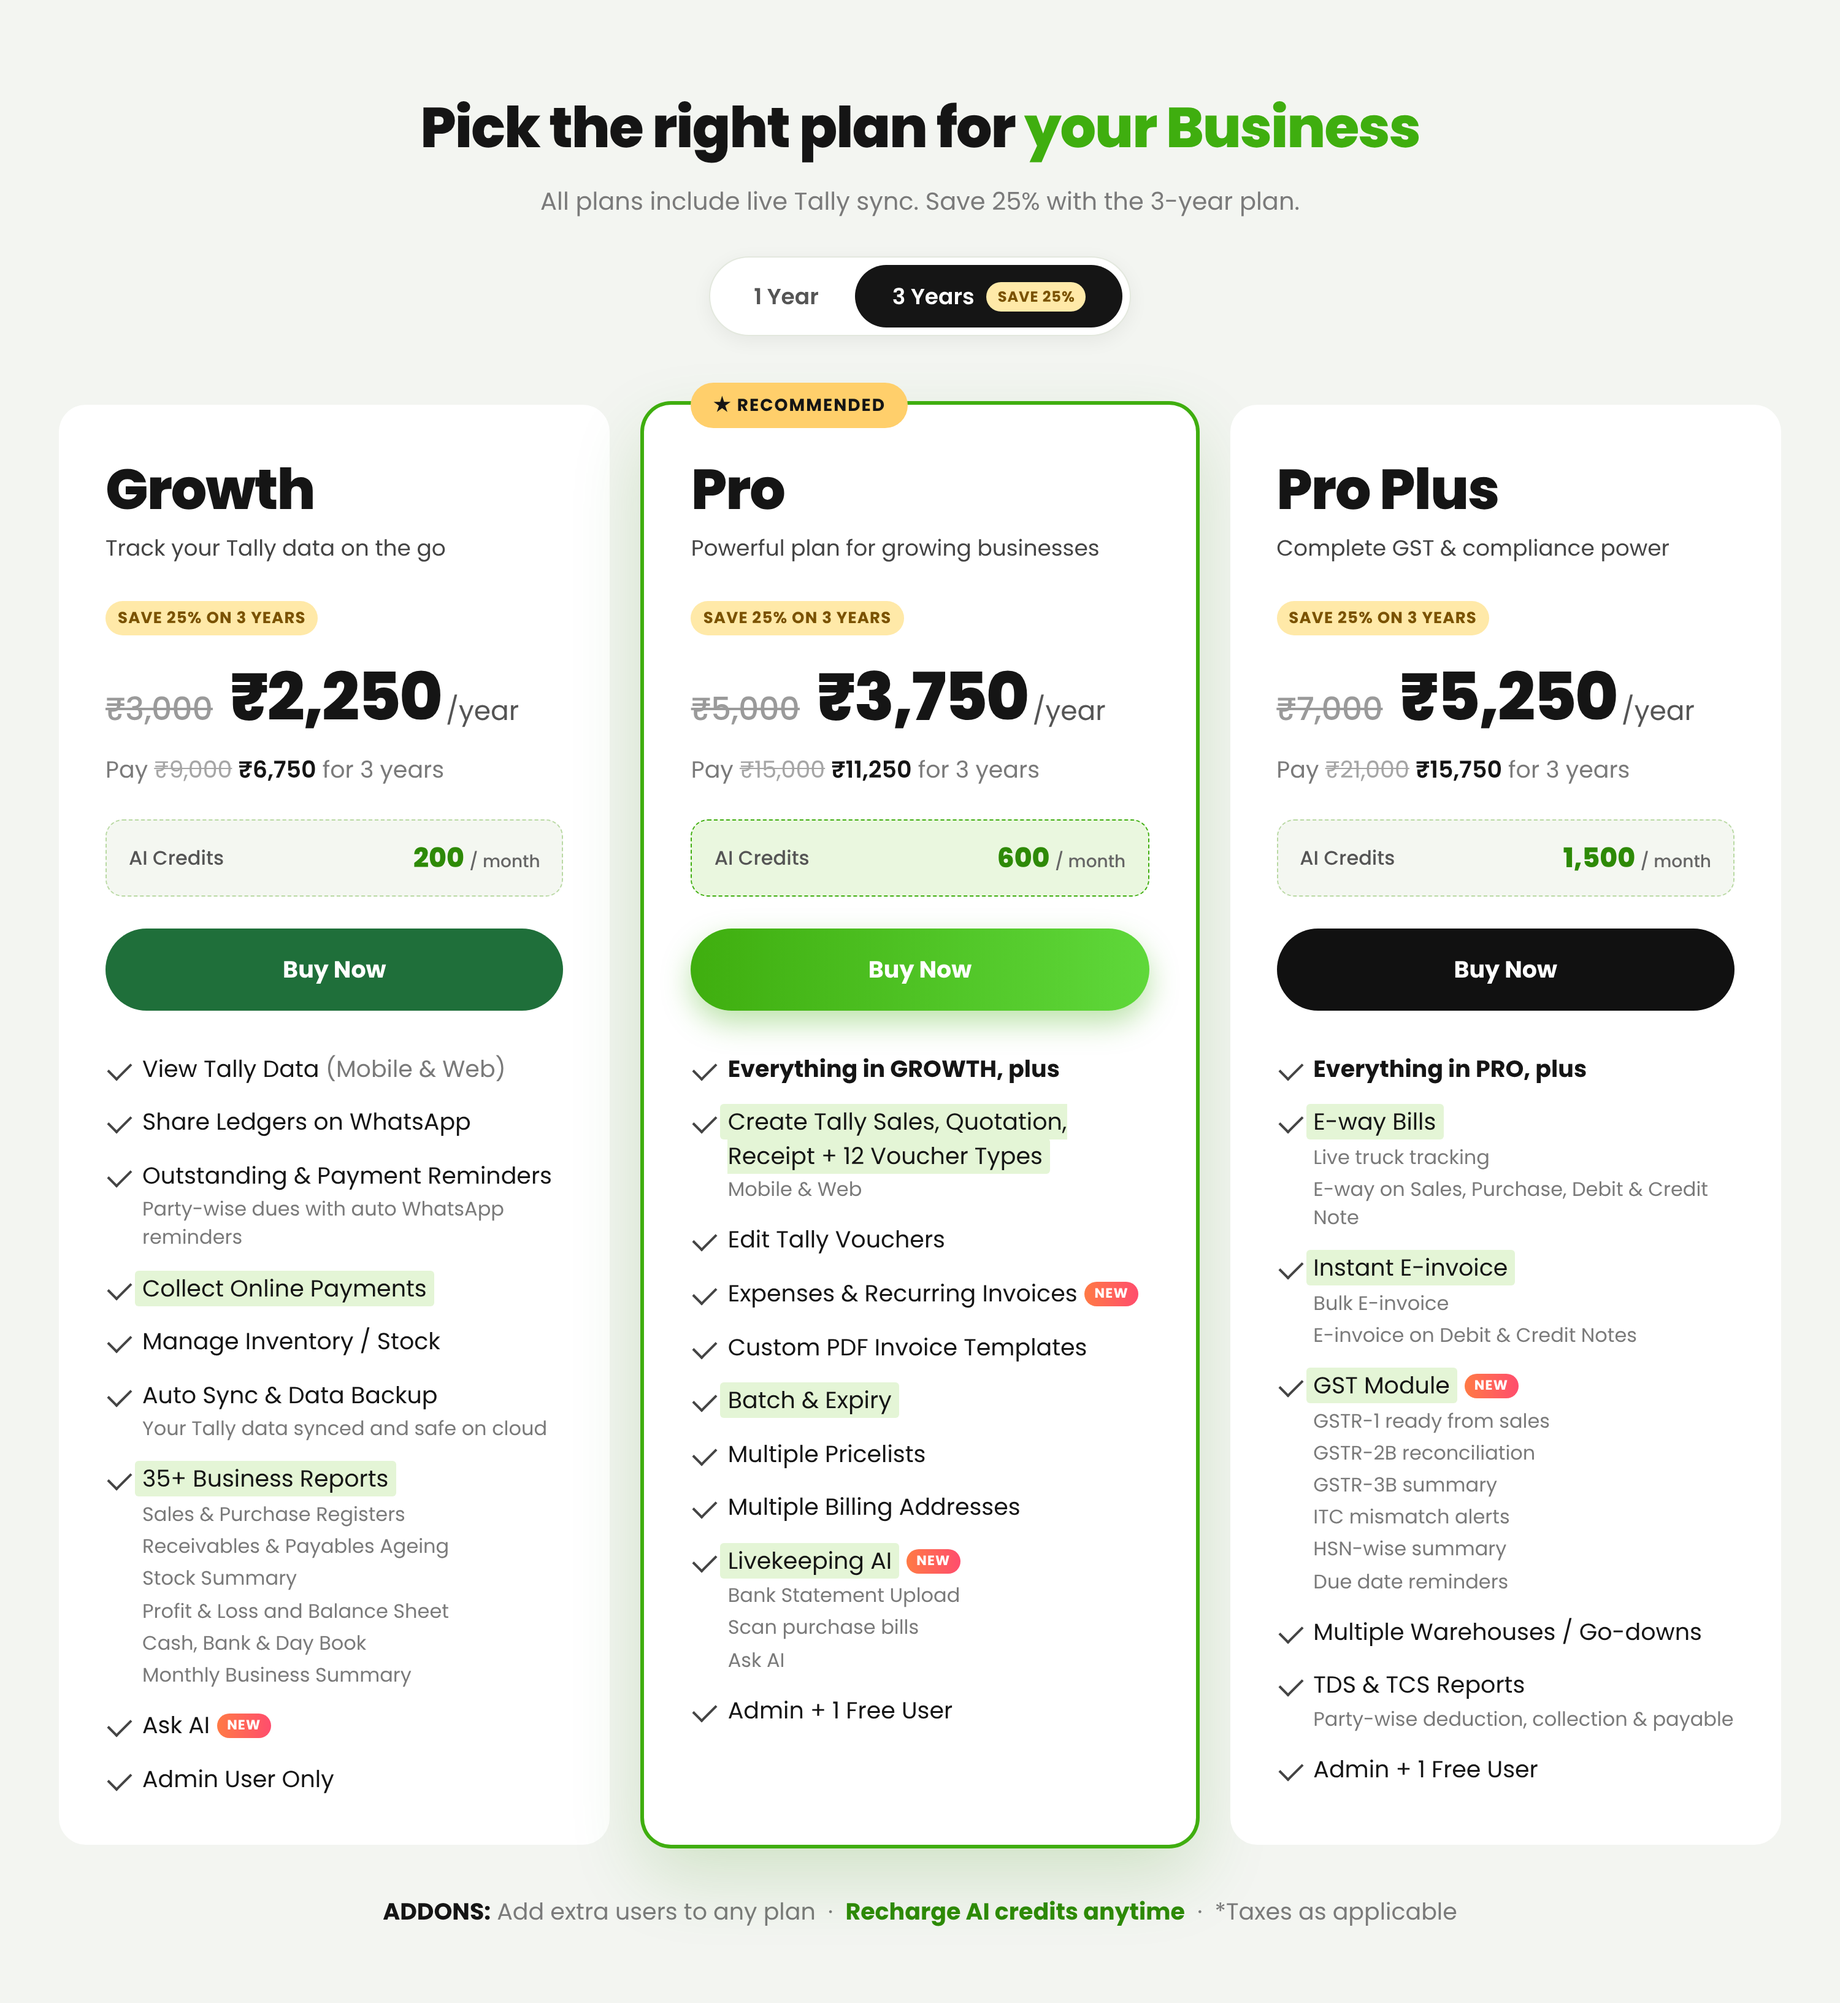
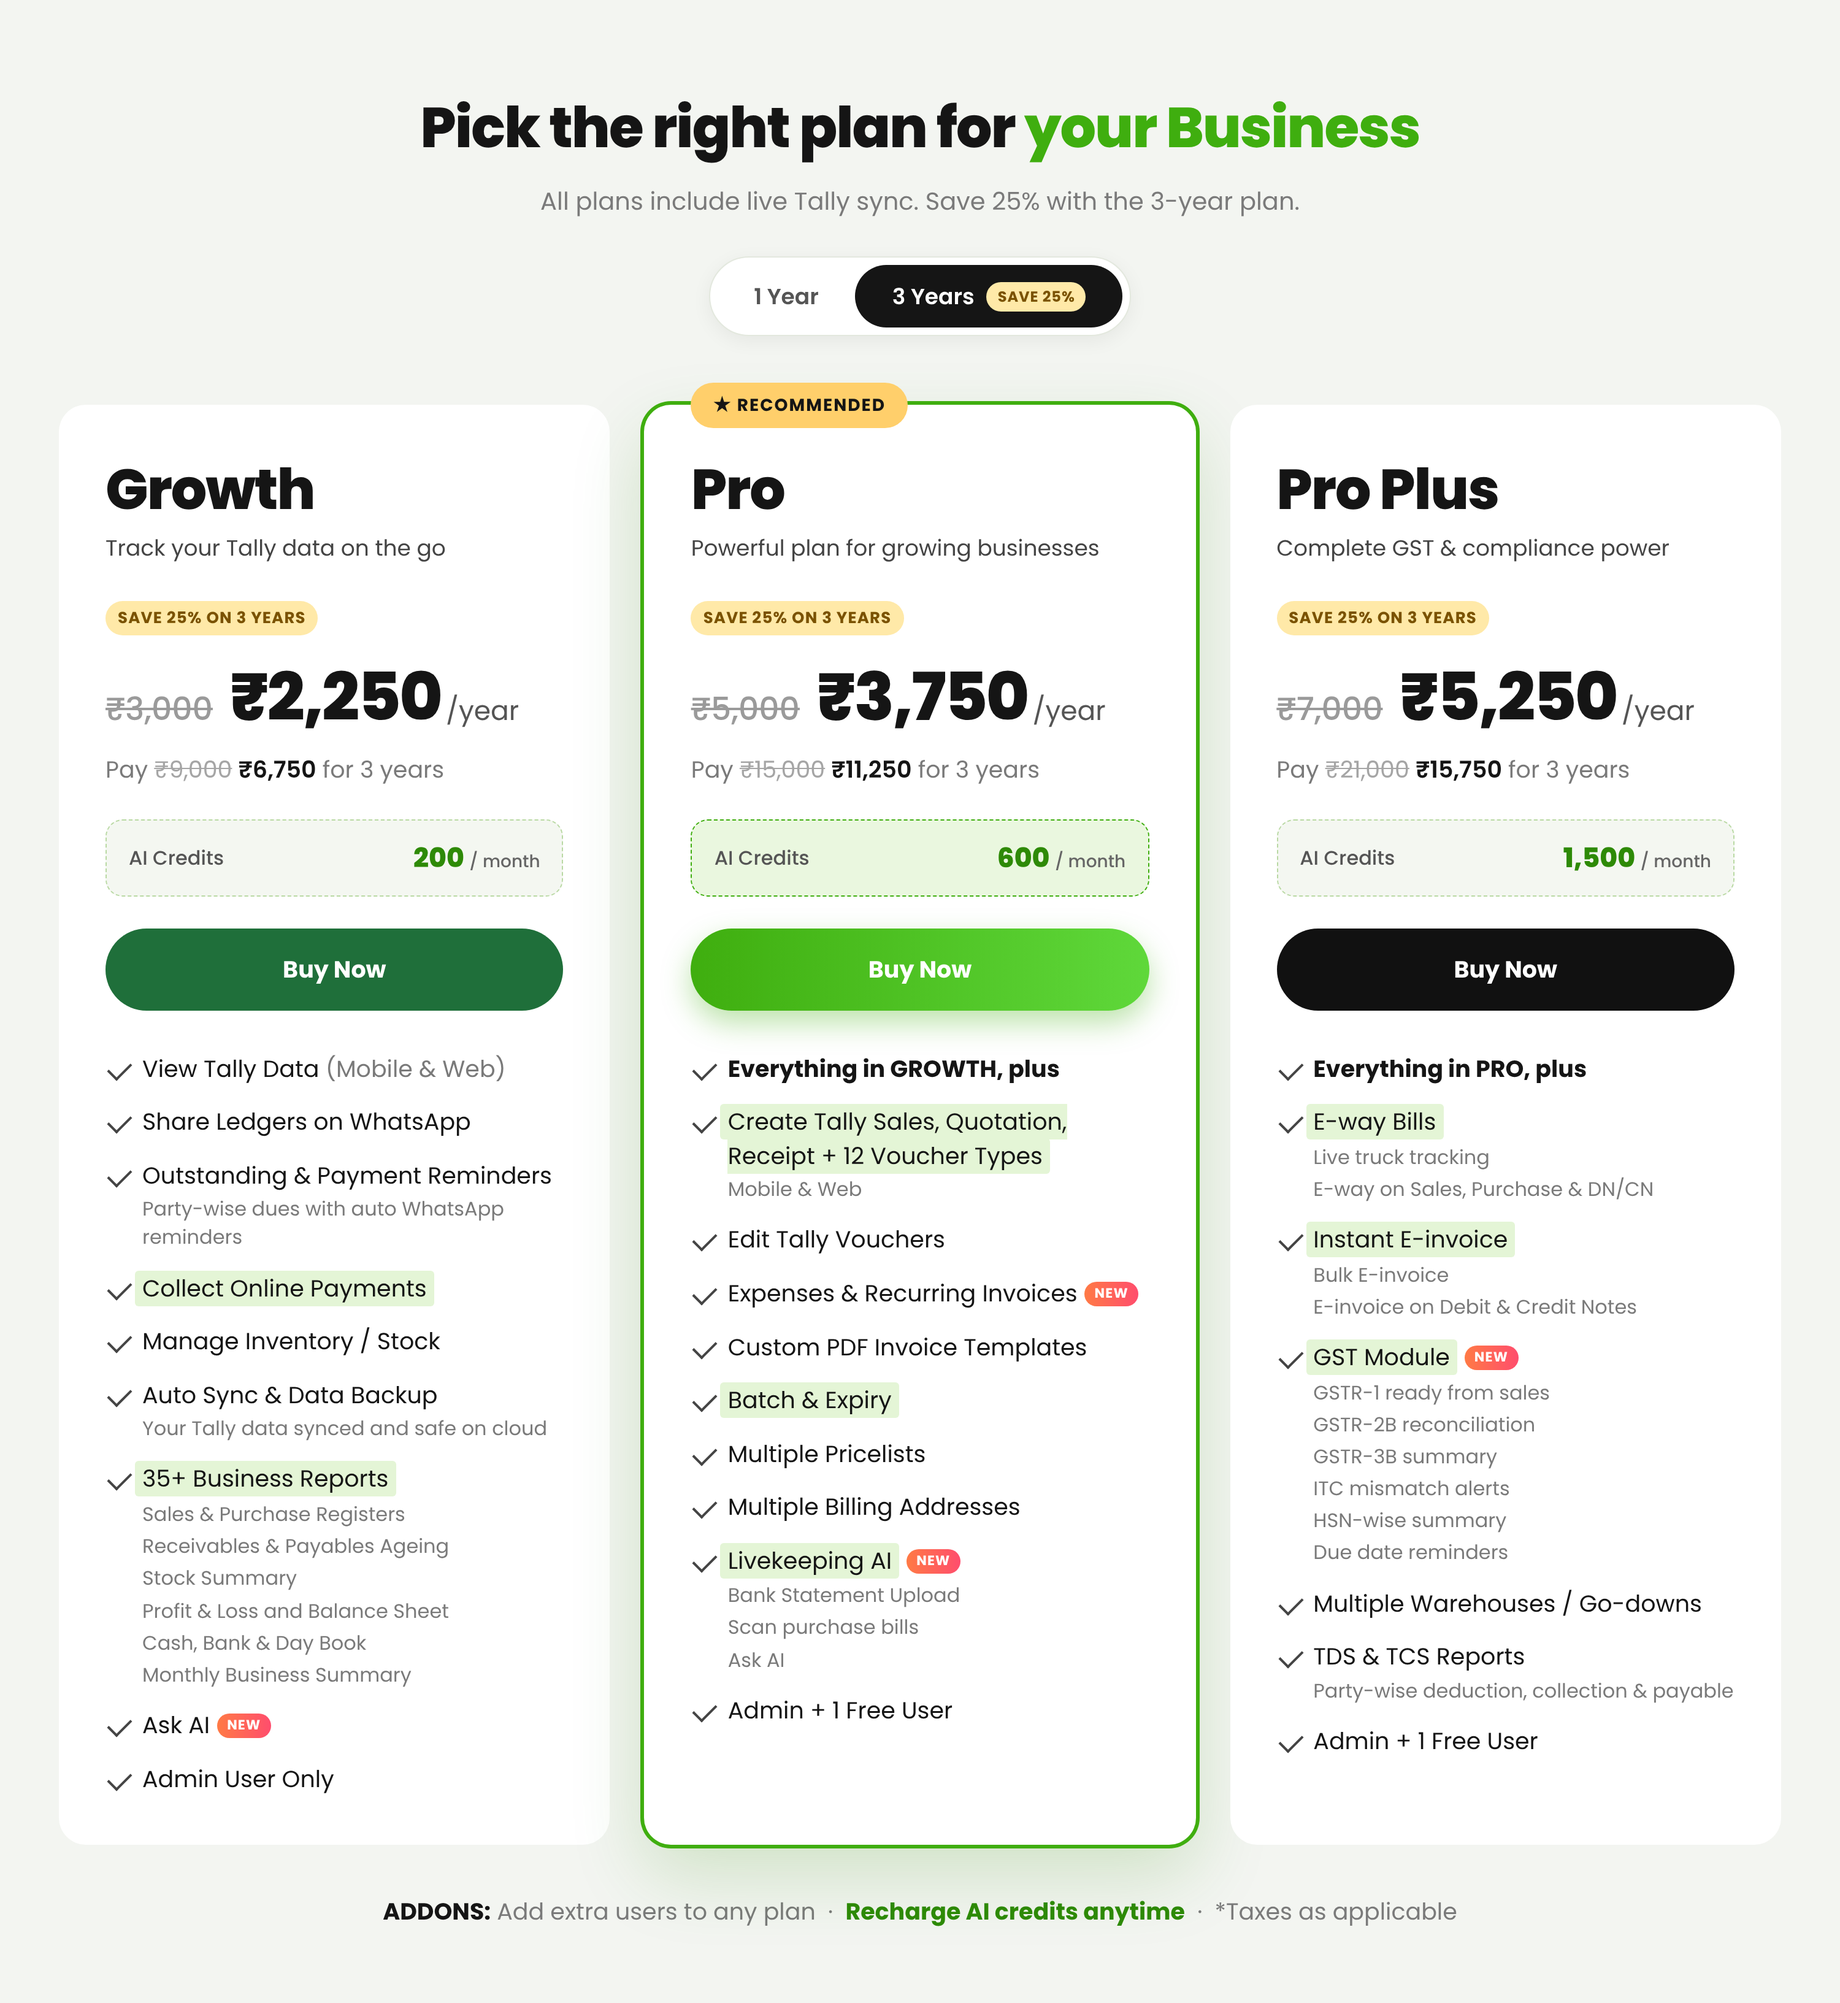
Pricing cards: fit combined e-way line on one row
Claude-Session: https://claude.ai/code/session_01TUFe6273V25gsCzznixesV

Changed region(s): [[0.713, 0.5934, 0.93, 0.8745]]

diff --git a/livekeeping-pricing/cards.html b/livekeeping-pricing/cards.html
@@ -207,7 +207,7 @@
       <div class="btn">Buy Now</div>
       <ul>
         <li><div><b>Everything in PRO, plus</b></div></li>
-        <li><div><span class="hl">E-way Bills</span><span class="note ln">Live truck tracking</span><span class="note ln">E-way on Sales, Purchase, Debit &amp; Credit Note</span></div></li>
+        <li><div><span class="hl">E-way Bills</span><span class="note ln">Live truck tracking</span><span class="note ln">E-way on Sales, Purchase &amp; DN/CN</span></div></li>
         <li><div><span class="hl">Instant E-invoice</span><span class="note ln">Bulk E-invoice</span><span class="note ln">E-invoice on Debit &amp; Credit Notes</span></div></li>
         <li><div><span class="hl">GST Module</span><span class="new">NEW</span><span class="note ln">GSTR-1 ready from sales</span><span class="note ln">GSTR-2B reconciliation</span><span class="note ln">GSTR-3B summary</span><span class="note ln">ITC mismatch alerts</span><span class="note ln">HSN-wise summary</span><span class="note ln">Due date reminders</span></div></li>
         <li><div>Multiple Warehouses / Go-downs</div></li>
